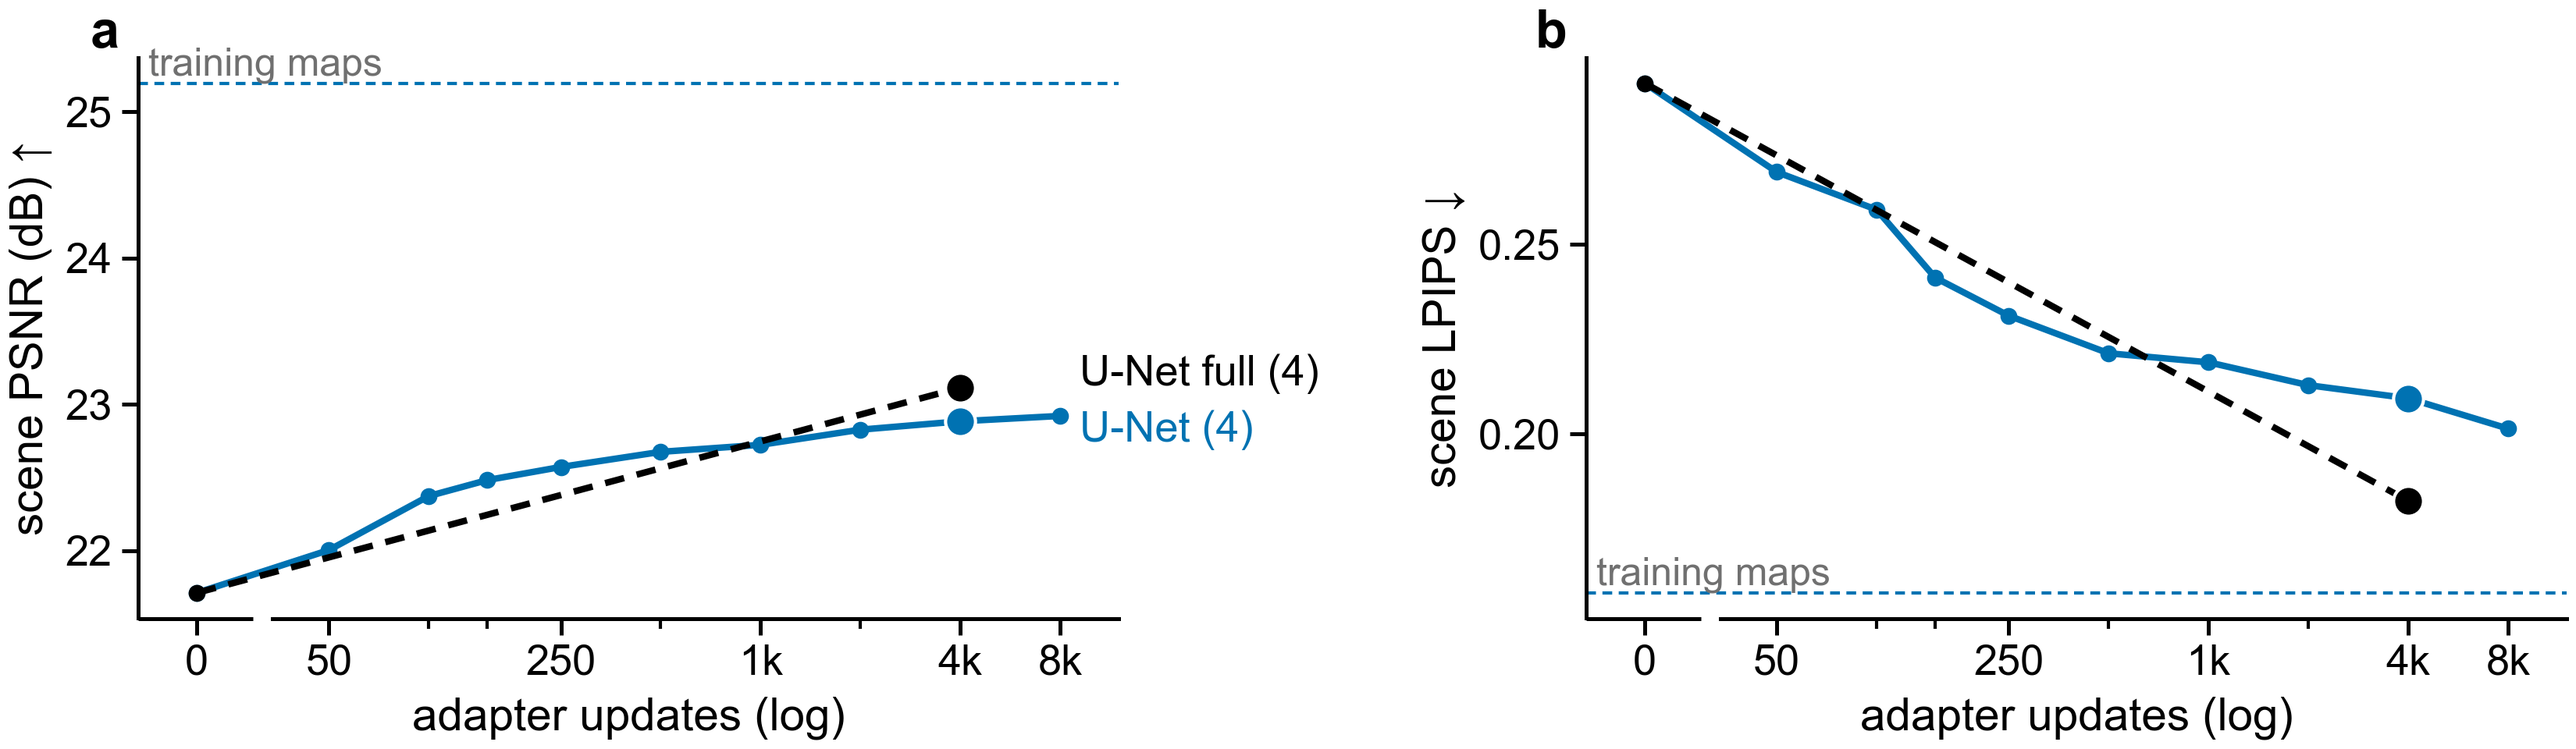
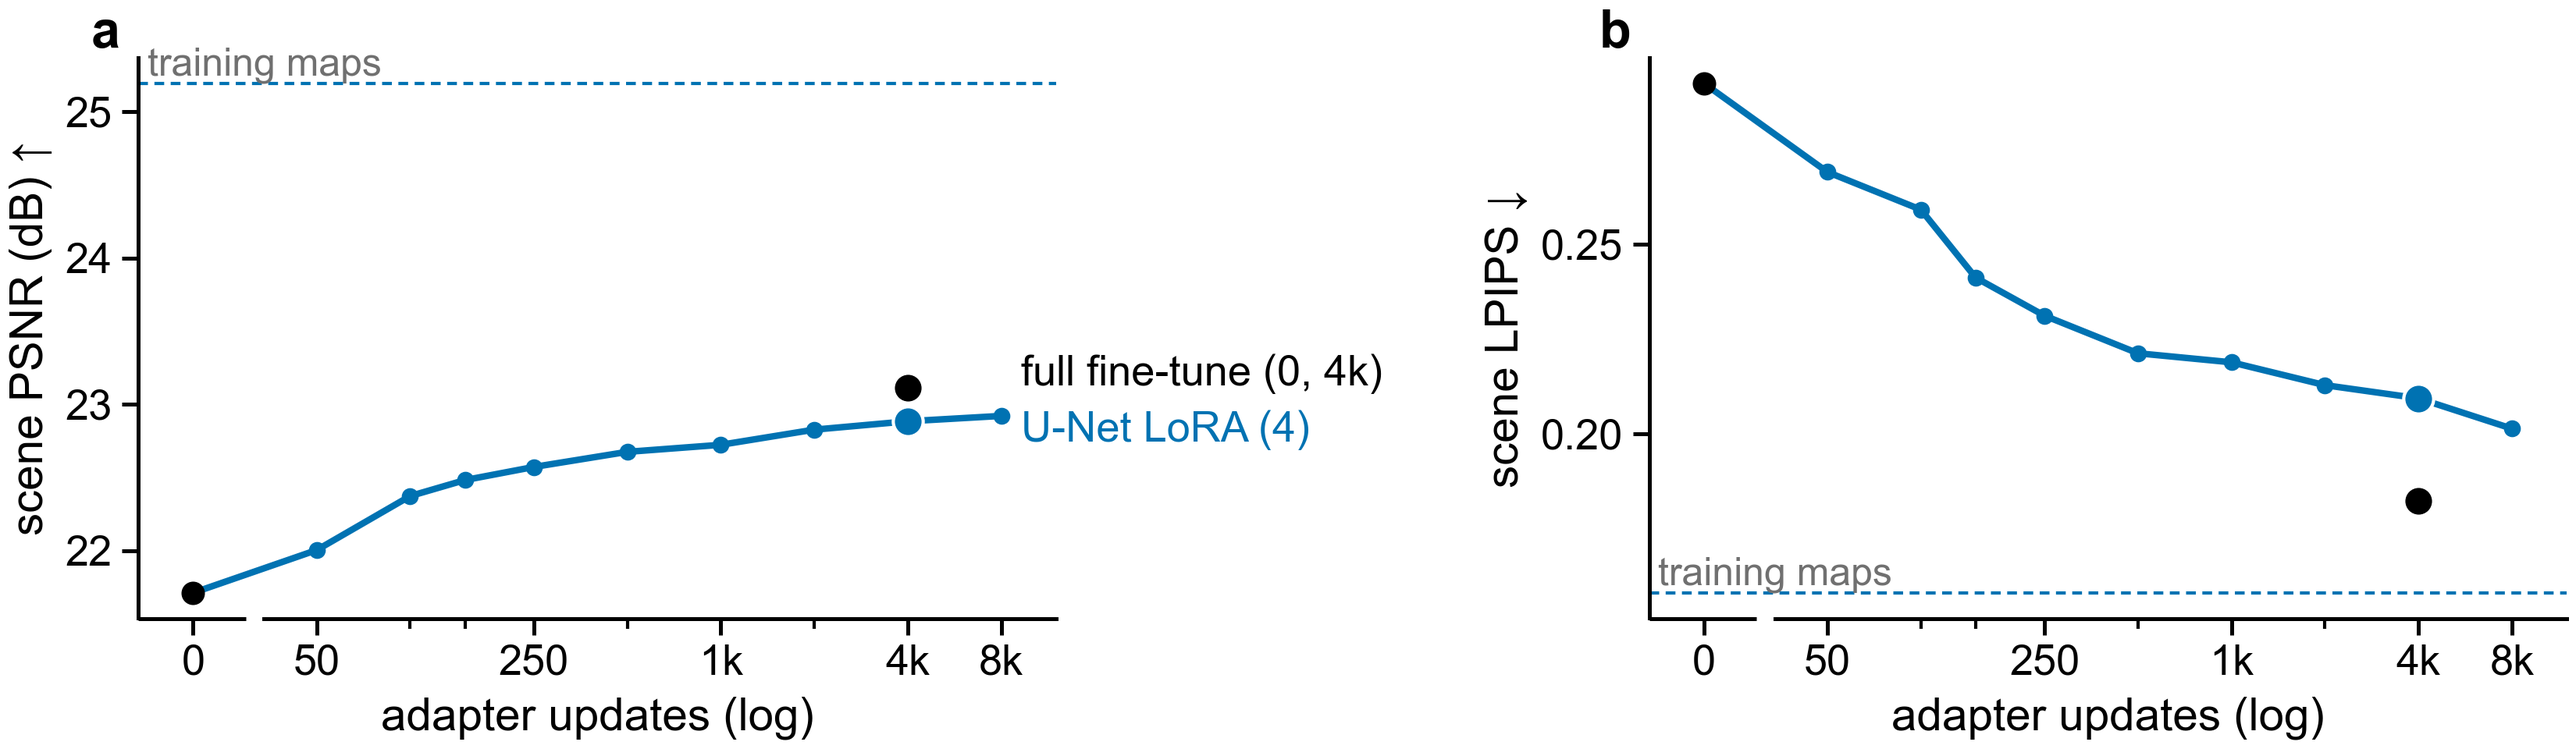
draw the full fine-tune as two points without a connector
(cherry picked from commit a40a62a7538be9df170f0d61f9cdb299abee6130)

diff --git a/docs/figure_review/index.html b/docs/figure_review/index.html
@@ -56,7 +56,7 @@ svg text{font-family:"IBM Plex Sans",sans-serif}
 <p>Median raw scene PSNR (a) and LPIPS (b) against adapter updates for each backbone's LoRA, from <code>figures/raw/</code> (5.5 by 1.6 in each). Filled mark: 4k updates. Dashed lines: each backbone's training maps, SD&nbsp;3.5's at 200k through its fine-tuned decoder (25.38&nbsp;dB, LPIPS 0.126; since 08:50). Both panels are redrawn when the next batch of runs arrives. PixArt-&alpha; is complete on all 13 arenas and SD&nbsp;3.5 on 7 (6, 7, 8, 11, 13, 14, 16); six of Superman's nine SD&nbsp;3.5 arenas are still to come. The full fine-tune (complete on 6, 7, 8 and 16; its budget prints as ${\le}$4k because it is scored only at 0 and 4k) has its own panel below, against the U-Net LoRA on the same four arenas.</p>
 <figure><img src="img/print_raw_backbones.png" alt="backbone adaptation panel, every scored arena" style="width:5.5in;max-width:100%"><figcaption><b>Every scored arena</b> (<code>raw_backbones.pdf</code>): each curve averages its own arenas, U-Net and PixArt-&alpha; all 13 and SD&nbsp;3.5 seven (6, 7, 8, 11, 13, 14, 16), so the SD&nbsp;3.5 curve is not comparable with the other two.</figcaption></figure>
 <figure><img src="img/print_raw_backbones_shared.png" alt="backbone adaptation panel, shared arenas" style="width:5.5in;max-width:100%"><figcaption><b>Shared arenas only</b> (<code>raw_backbones_shared.pdf</code>): every curve averages the same arenas, the ones all three backbones have scored (today 6, 7, 8, 11, 13, 14 and 16). On these, the three reach 23.0 to 23.1&nbsp;dB at 4k (U-Net 23.00, PixArt-&alpha; 23.08, SD&nbsp;3.5 23.06). SD&nbsp;3.5 starts lowest (21.84&nbsp;dB) and ends with the lowest LPIPS (0.169, against 0.213 and 0.205).</figcaption></figure>
-<figure><img src="img/print_raw_fullft.png" alt="U-Net LoRA against the full fine-tune on arenas 6, 7, 8 and 16" style="width:5.5in;max-width:100%"><figcaption><b>LoRA against the full fine-tune</b> (<code>raw_fullft.pdf</code>, 5.5 by 1.6 in): both curves average arenas 6, 7, 8 and 16. The U-Net LoRA's whole grid is set against the full fine-tune's two reads: 0 (the LoRA's step 0, the same checkpoint and windows) and 4k (black, dashed). At 4k the full fine-tune reaches 23.11&nbsp;dB and LPIPS 0.182, against the LoRA's 22.88 and 0.209 (22.92 and 0.201 at 8k), both from 21.71 and 0.292. The dashed segment is not measured between 0 and 4k. The body decides whether this goes in.</figcaption></figure>
+<figure><img src="img/print_raw_fullft.png" alt="U-Net LoRA against the full fine-tune on arenas 6, 7, 8 and 16" style="width:5.5in;max-width:100%"><figcaption><b>LoRA against the full fine-tune</b> (<code>raw_fullft.pdf</code>, 5.5 by 1.6 in): both curves average arenas 6, 7, 8 and 16. The U-Net LoRA's whole grid is set against the full fine-tune's two reads as black points with no connector: 0 (the LoRA's step 0, the same checkpoint and windows, so the two marks coincide) and 4k. Nothing between them was measured. At 4k the full fine-tune reaches 23.11&nbsp;dB and LPIPS 0.182, against the LoRA's 22.88 and 0.209 (22.92 and 0.201 at 8k), both from 21.71 and 0.292. The body decides whether this goes in.</figcaption></figure>
 <h2>The draft's figures at print size (15:00 EDT) · as set in the four-page draft (main af1de44) <span class="tag paper">paper</span></h2>
 <p>Each figure is drawn at its slot size and placed at scale 1. On screen it is shown at its printed width (5.5 in is the full text width), so its type appears at print size: 6.5 to 7 pt labels, 6 pt numbers. Captions are the draft's.</p>
 <figure><img src="img/print_fig_teaser_B.png" alt="Figure 1 print" style="width:5.5in;max-width:100%"><figcaption><b>Figure 1</b> (<code>fig_teaser_B.pdf</code>, 5.5 by 1.5 in). On an unseen arena the U-Net keeps moving and firing but renders the arena in training-map masonry; eight episodes restore it. Left, training maps 5 and 3 (in distribution); right, unseen arena 7 zero-shot and after 4k adapter updates on 8 episodes. Selected windows, rolled out 16 tics past the context frame with the row's button held throughout; fine-tuned decoder, raw ground truth, scene PSNR; persistence scores 16 to 19&nbsp;dB on these windows. <i>(The draft's caption says "a training map"; with two maps it becomes "training maps 5 and 3".)</i></figcaption></figure>

diff --git a/paper/make_raw_figures.py b/paper/make_raw_figures.py
@@ -793,6 +793,11 @@ def fullft_arenas(lora_arenas, full_arenas):
     return wanted if wanted and set(wanted) <= set(full_arenas) else None
 
 
+def fullft_label(points):
+    """The full fine-tune's key entry, named by the reads it has: "full fine-tune (0, 4k)"."""
+    return f"full fine-tune ({', '.join(fs.step_label(int(st)) for st in sorted(points))})"
+
+
 def panel_points(raw, arenas=None):
     """{step: (median PSNR, median LPIPS)} over `arenas` (every arena of `raw` when None) of one block's raw reads
     (`raw` is {arena: {step: read}}); None when the block lacks one of `arenas`."""
@@ -807,10 +812,10 @@ def panel_points(raw, arenas=None):
 def fig_backbones(curves, levels, out_dir, headline=HEADLINE_STEP, stem="raw_backbones"):
     """The per-backbone adaptation panel: the median over each block's arenas of raw scene PSNR (left) and LPIPS
     (right) against adapter updates (log axis, the 0 read at the left), one curve per block in its backbone's colour
-    and marker (the full fine-tune black dashed), the headline read filled, each backbone's training-map level as a
-    short dashed segment at the right edge, each curve labelled at its right end with its arena count. `curves` is
-    [(key, label, {step: (psnr, lpips)}, n)], `levels` {key: (psnr, lpips)}; `stem` names the variant (the shared
-    one draws every curve over the same arenas)."""
+    and marker (the full fine-tune as black points at its reads, no connector), the headline read filled, each
+    backbone's training-map level as a short dashed segment at the right edge, each curve labelled at its right end
+    with its arena count (none when `n` is None). `curves` is [(key, label, {step: (psnr, lpips)}, n)], `levels`
+    {key: (psnr, lpips)}; `stem` names the variant (the shared one draws every curve over the same arenas)."""
     fig, (px, lx) = fs.new_figure(SIZES[stem], ncols=2, wspace=0.08)
     steps = sorted({st for _, _, pts, _ in curves for st in pts})
     for ax, j in ((px, 0), (lx, 1)):
@@ -822,12 +827,14 @@ def fig_backbones(curves, levels, out_dir, headline=HEADLINE_STEP, stem="raw_bac
             marker = "o" if who == "full" else ent.marker
             xs = [z if st == 0 else st for st in sorted(pts)]
             ys = [pts[st][j] for st in sorted(pts)]
-            ax.plot(xs, ys, color=ent.colour, ls=ls, lw=fs.DATA_LW, marker=marker, ms=1.6, mfc=ent.colour,
-                    mec=ent.colour, zorder=3)
+            # the full fine-tune is scored at its two reads only: points, no connector (a line between them would
+            # draw values nobody measured, and it crossed the LoRA curve where neither was read)
+            ax.plot(xs, ys, color=ent.colour, ls="none" if who == "full" else ls, lw=fs.DATA_LW, marker=marker,
+                    ms=2.6 if who == "full" else 1.6, mfc=ent.colour, mec=ent.colour, zorder=3)
             if headline in pts:
                 ax.plot([headline], [pts[headline][j]], ls="none", marker=marker, ms=4.6, mfc=ent.colour,
                         mec="white", mew=0.5, zorder=3.5)
-            ends.append((xs[-1], ys[-1], f"{label} ({n})", ent.colour))
+            ends.append((xs[-1], ys[-1], label if n is None else f"{label} ({n})", ent.colour))
             if key in levels and levels[key][j] is not None and who != "full":     # the full FT shares the U-Net's
                 ax.axhline(levels[key][j], color=ent.colour, lw=fs.MIN_LW, ls=fs.TRAINING_DASH, zorder=1.5, gid="ref")
         drawn_levels = [levels[k][j] for k, *_ in curves if k in levels and levels[k][j] is not None]
@@ -1165,8 +1172,11 @@ def main(argv=None):
     # the full fine-tune panel: the U-Net LoRA's whole grid against the full fine-tune's two reads (0 and 4k) on the
     # comparator arenas, drawn once the full fine-tune has every one the LoRA has
     ft_arenas = fullft_arenas(panel_arenas.get("unet_lora", []), panel_arenas.get("unet_full", []))
-    ft_curves = [(key, PANEL_LABELS[key], pts, len(ft_arenas)) for key in ("unet_lora", "unet_full") if ft_arenas
-                 for pts in [panel_points(panel_raw[key], ft_arenas)] if pts]
+    ft_points = {key: panel_points(panel_raw[key], ft_arenas) for key in ("unet_lora", "unet_full") if ft_arenas}
+    ft_curves = [(key, label, ft_points[key], n) for key, label, n in
+                 (("unet_lora", "U-Net LoRA", len(ft_arenas or [])),
+                  ("unet_full", fullft_label(ft_points.get("unet_full") or {}), None))
+                 if ft_points.get(key)]
     if len(ft_curves) == 2:
         written += fig_backbones(ft_curves, levels, a.out_dir, a.headline_step, stem="raw_fullft")
 
@@ -1220,6 +1230,8 @@ def main(argv=None):
         "backbone_panel": {"drawn": [c[0] for c in curves], "not_drawn": not_drawn, "arenas": panel_arenas,
                            "medians": {c[0]: {str(st): v for st, v in c[2].items()} for c in curves}},
         "fullft_panel": {"arenas": ft_arenas or [], "drawn": [c[0] for c in ft_curves] if len(ft_curves) == 2 else [],
+                         "labels": [c[1] if c[3] is None else f"{c[1]} ({c[3]})" for c in ft_curves]
+                         if len(ft_curves) == 2 else [],
                          "waiting_for": sorted(set(COMPARATOR_ARENAS) & set(panel_arenas.get("unet_lora", []))
                                                - set(panel_arenas.get("unet_full", []))),
                          "medians": {c[0]: {str(st): v for st, v in c[2].items()} for c in ft_curves}

diff --git a/paper/fixtures/test_make_raw_figures.py b/paper/fixtures/test_make_raw_figures.py
@@ -398,6 +398,28 @@ def test_the_full_fine_tune_panel_waits_for_every_comparator_arena_the_lora_has(
     assert mrf.fullft_arenas([6, 9], []) is None and mrf.fullft_arenas([9], [9]) is None
 
 
+def test_the_full_fine_tune_is_two_bare_points_keyed_by_its_reads(tmp_path, monkeypatch):
+    from matplotlib.colors import same_color
+    kept = {}
+    save = mrf.fs.save
+
+    def keep(fig, out_dir, stem):
+        px = fig.axes[0]
+        black = [ln for ln in px.lines if same_color(ln.get_color(), mrf.fs.FULL_FINE_TUNE.colour)
+                 and ln.get_gid() not in ("ref", "decor")]                   # data, not the axis-break mark
+        kept[stem] = (black, [t.get_text() for t in px.texts])
+        return save(fig, out_dir, stem)
+    monkeypatch.setattr(mrf.fs, "save", keep)
+    lora = {st: (21.7 + 0.1 * i, 0.29 - 0.01 * i) for i, st in enumerate(mrf.GRID)}
+    full = {0: (21.7, 0.29), 4000: (23.1, 0.18)}
+    mrf.fig_backbones([("unet_lora", "U-Net LoRA", lora, 4), ("unet_full", mrf.fullft_label(full), full, None)], {},
+                      str(tmp_path), 4000, stem="raw_fullft")
+    black, texts = kept["raw_fullft"]
+    assert black and all(ln.get_linestyle() == "None" for ln in black)         # points only: nothing between 0 and 4k
+    assert sorted(x for ln in black for x, _ in ln.get_xydata()) and "full fine-tune (0, 4k)" in texts
+    assert "U-Net LoRA (4)" in texts
+
+
 def test_backbone_end_labels_clear_every_mark_and_the_next_panel(tmp_path, monkeypatch):
     # the shared panel's case: three curves ending within 0.1 dB, two at 4k and the U-Net's at 8k
     kept = {}
@@ -591,6 +613,7 @@ def test_the_raw_set_is_drawn_at_its_slot_sizes_and_the_numbers_are_recorded(tmp
     assert ft["medians"]["unet_full"]["4000"][0] == pytest.approx(23.0)
     assert ft["medians"]["unet_lora"]["0"][0] == pytest.approx(18.0) == ft["medians"]["unet_full"]["0"][0]
     assert len(ft["medians"]["unet_lora"]) > 2                                       # the LoRA's whole grid
+    assert ft["labels"] == ["U-Net LoRA (1)", "full fine-tune (0, 4k)"]
     # the appendix's per-arena table: the gap, its threshold, the reads, the guards
     per = s["per_arena_table"]
     assert per["6"]["gap_zero_shot"] == pytest.approx(8.0)
